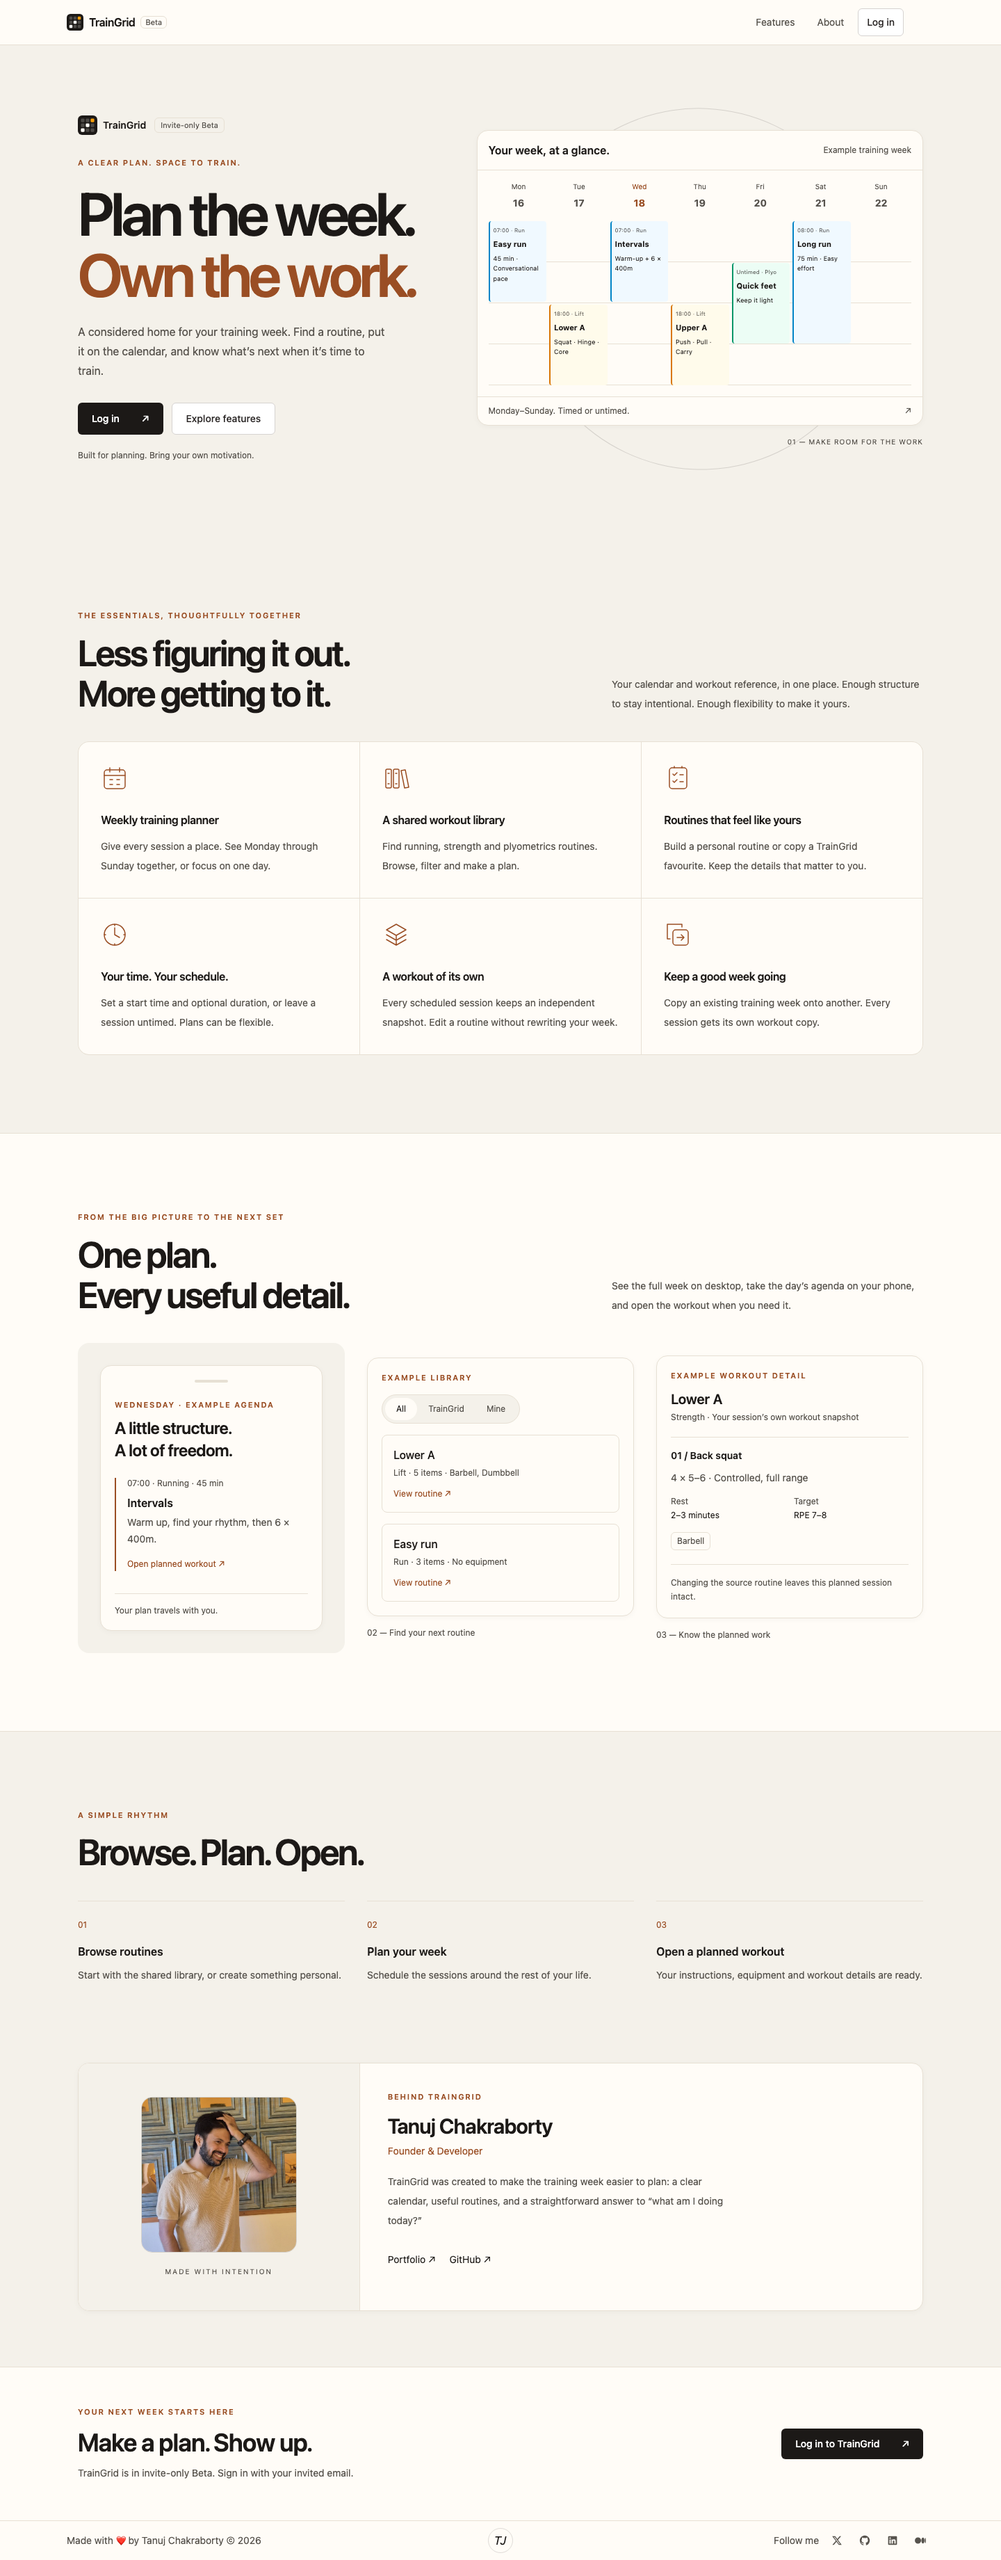
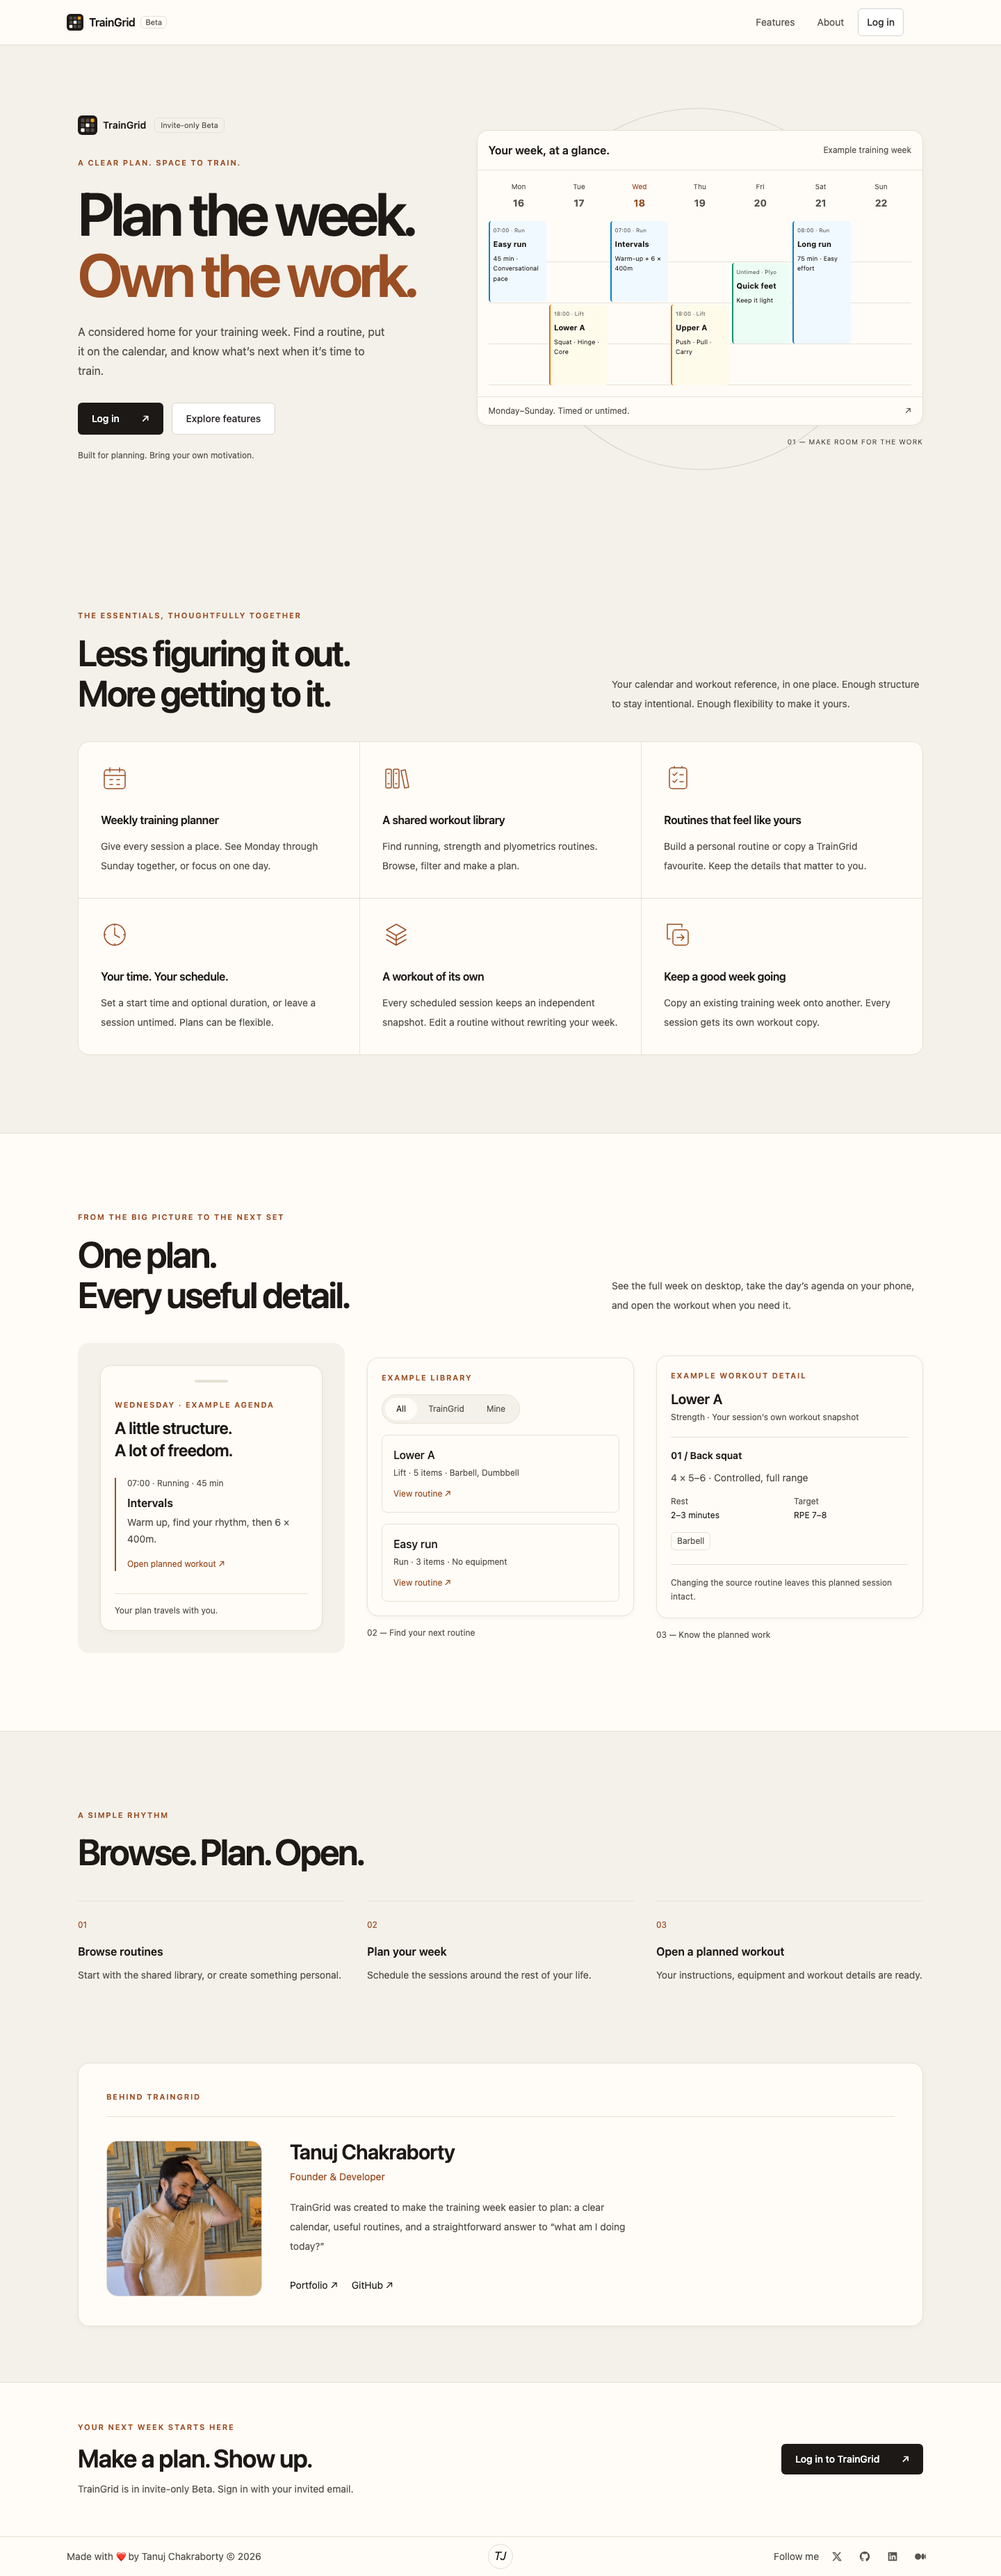
fix(ui): unify home loaders and refine signout and creator card

diff --git a/e2e/loaders.spec.ts b/e2e/loaders.spec.ts
@@ -1,3 +1,4 @@
+import { mkdir } from "node:fs/promises";
 import { expect, test, type Page } from "@playwright/test";
 import { hasLocalSecretKey, signInAsNewLocalMember, supabaseState } from "./local-supabase";
 
@@ -28,8 +29,12 @@ async function slowNavigations(page: Page, pattern: RegExp, ms = 1500) {
 const pageLoader = (page: Page) => page.getByTestId("page-loader");
 
 test("following a link shows the spinning logo until the next page arrives", async ({ page }) => {
-  await page.goto("/library");
   await slowNavigations(page, /^\/library\/[0-9a-f-]{36}/);
+  await page.goto("/library");
+  await page.waitForFunction(() => {
+    const summary = document.querySelector("header summary");
+    return !!summary && Object.keys(summary).some((key) => key.startsWith("__reactFiber"));
+  });
   await page.locator("main section li a[href^='/library/']").first().click();
 
   await expect(pageLoader(page)).toBeVisible();
@@ -119,3 +124,91 @@ test("the planner streams the week behind a section loader without breaking 404s
   const response = await page.goto("/week/2026-W99");
   expect(response?.status()).toBe(404);
 });
+
+test("member home uses the existing navigation logo while loading", async ({
+  page,
+}) => {
+  await page.goto("/library");
+  await slowNavigations(page, /^\/home(?:\?|$)/);
+  await page
+    .getByRole("navigation", { name: "Main" })
+    .getByRole("link", { name: "Home", exact: true })
+    .click();
+  await expect(pageLoader(page)).toBeVisible();
+  await expect(pageLoader(page).locator("svg")).toHaveCSS(
+    "animation-name",
+    "spin",
+  );
+  await expect(page).toHaveURL(/\/home$/);
+  await expect(pageLoader(page)).toHaveCount(0);
+  await expect(page.getByTestId("section-loader")).toHaveCount(0);
+});
+
+test("public landing uses the existing navigation logo while loading", async ({
+  page,
+  context,
+}) => {
+  await context.clearCookies();
+  await page.goto("/login");
+  await slowNavigations(page, /^\/(?:\?|$)/);
+  await page
+    .getByRole("banner")
+    .getByRole("link", { name: "TrainGrid", exact: true })
+    .click();
+  await expect(pageLoader(page)).toBeVisible();
+  await expect(page).toHaveURL(/:\d+\/$/);
+  await expect(page.getByRole("heading", { level: 1 })).toContainText(
+    "Plan the week.",
+  );
+  await expect(pageLoader(page)).toHaveCount(0);
+});
+
+for (const theme of ["light", "dark"] as const) {
+  for (const width of [360, 1440]) {
+    test(`signout shows real pending progress (${theme}, ${width})`, async ({
+      page,
+    }) => {
+      await page.setViewportSize({ width, height: 900 });
+      await page.emulateMedia({ colorScheme: theme, reducedMotion: "reduce" });
+      await page.goto("/home");
+      await expect(page.getByRole("main").getByRole("heading", { level: 1 })).toBeVisible();
+      await page.route("**/*", async (route) => {
+        if (
+          route.request().method() === "POST" &&
+          route.request().headers()["next-action"]
+        ) {
+          await new Promise((resolve) => setTimeout(resolve, 2000));
+        }
+        await route.continue();
+      });
+      if (width === 360) {
+        await page.waitForFunction(() => {
+          const summary = document.querySelector("header summary");
+          return (
+            !!summary &&
+            Object.keys(summary).some((key) => key.startsWith("__reactFiber"))
+          );
+        });
+        await page.getByLabel("Open menu", { exact: true }).click();
+      }
+      await page.getByRole("button", { name: "Sign out", exact: true }).click();
+      const loader = page.getByTestId("signout-loader");
+      await expect(loader.getByRole("status")).toHaveText("Signing you out...");
+      await expect(
+        page.getByRole("button", { name: "Signing you out...", exact: true }),
+      ).toBeDisabled();
+      await expect(loader.locator("svg")).toHaveCSS("animation-name", "none");
+      await mkdir("docs/images/epic-3/loaders-creator", { recursive: true });
+      await page.screenshot({
+        path: `docs/images/epic-3/loaders-creator/signout-${width}-${theme}.png`,
+        animations: "disabled",
+        style: "nextjs-portal { display: none !important; }",
+      });
+      await expect(page).toHaveURL(/\/login$/);
+      await expect(loader).toHaveCount(0);
+      await expect(
+        page.getByRole("button", { name: "Sign out", exact: true }),
+      ).toHaveCount(0);
+    });
+  }
+}

diff --git a/components/marketing/LandingPage.tsx b/components/marketing/LandingPage.tsx
@@ -210,52 +210,53 @@ export function LandingPage({
         className="landing-container pb-20"
         aria-labelledby="creator-title"
       >
-        <div className="creator-card ui-panel">
-          <div className="creator-mark">
-            <Image
-              src="/marketing/tanuj-chakraborty.jpg"
-              alt="Tanuj Chakraborty"
-              width={1170}
-              height={1170}
-              unoptimized
-              loading="lazy"
-              className="aspect-square w-56 rounded-2xl border border-hairline object-cover"
-            />
-            <span className="mt-5 font-mono text-[10px] uppercase tracking-[0.2em] text-stone-600">
-              Made with intention
-            </span>
-          </div>
-          <div className="p-7 sm:p-10">
-            <p className="ui-eyebrow">Behind TrainGrid</p>
-            <h2
-              id="creator-title"
-              className="mt-4 text-3xl font-semibold tracking-tight"
-            >
-              Tanuj Chakraborty
-            </h2>
-            <p className="mt-2 text-sm text-accent">{creatorRole}</p>
-            <p className="mt-5 max-w-lg text-sm leading-7 text-stone-600">
-              TrainGrid was created to make the training week easier to plan: a
-              clear calendar, useful routines, and a straightforward answer to
-              “what am I doing today?”
-            </p>
-            <div className="mt-6 flex flex-wrap gap-5 text-sm">
-              <a
-                className="underline-reveal py-2"
-                href="https://iamtj.dev"
-                target="_blank"
-                rel="noopener noreferrer"
-              >
-                Portfolio ↗
-              </a>
-              <a
-                className="underline-reveal py-2"
-                href="https://github.com/i-am-tj"
-                target="_blank"
-                rel="noopener noreferrer"
-              >
-                GitHub ↗
-              </a>
+        <div className="creator-card ui-panel p-7 sm:p-10">
+          <h2
+            id="creator-title"
+            className="ui-eyebrow border-b border-line pb-5"
+          >
+            Behind TrainGrid
+          </h2>
+          <div className="creator-layout mt-8">
+            <div className="creator-mark">
+              <Image
+                src="/marketing/tanuj-chakraborty.jpg"
+                alt="Tanuj Chakraborty"
+                width={1170}
+                height={1170}
+                unoptimized
+                loading="lazy"
+                className="aspect-square w-56 max-w-full rounded-2xl border border-hairline object-cover"
+              />
+            </div>
+            <div className="creator-details">
+              <h3 className="text-3xl font-semibold tracking-tight">
+                Tanuj Chakraborty
+              </h3>
+              <p className="mt-2 text-sm text-accent">{creatorRole}</p>
+              <p className="mt-5 max-w-lg text-sm leading-7 text-stone-600">
+                TrainGrid was created to make the training week easier to plan:
+                a clear calendar, useful routines, and a straightforward answer
+                to “what am I doing today?”
+              </p>
+              <div className="mt-6 flex flex-wrap gap-5 text-sm">
+                <a
+                  className="underline-reveal py-2"
+                  href="https://iamtj.dev"
+                  target="_blank"
+                  rel="noopener noreferrer"
+                >
+                  Portfolio ↗
+                </a>
+                <a
+                  className="underline-reveal py-2"
+                  href="https://github.com/i-am-tj"
+                  target="_blank"
+                  rel="noopener noreferrer"
+                >
+                  GitHub ↗
+                </a>
+              </div>
             </div>
           </div>
         </div>

diff --git a/tests/ui/landing.spec.ts b/tests/ui/landing.spec.ts
@@ -145,3 +145,66 @@ test("mobile public menu retains native no-JavaScript access", async ({
     ),
   ).toBe(true);
 });
+
+test("Behind TrainGrid uses one card with aligned portrait and details in both themes", async ({
+  page,
+}) => {
+  await page.emulateMedia({ reducedMotion: "reduce" });
+  await page.goto("http://ui-preview.test/");
+  const card = page.locator(".creator-card");
+  const portrait = card.getByRole("img", {
+    name: "Tanuj Chakraborty",
+    exact: true,
+  });
+  const details = card.getByRole("heading", {
+    name: "Tanuj Chakraborty",
+    exact: true,
+  });
+  await expect(
+    card.getByRole("heading", { name: "Behind TrainGrid", exact: true }),
+  ).toBeVisible();
+  await expect(
+    card.getByText("Made with intention", { exact: true }),
+  ).toHaveCount(0);
+  for (const theme of ["light", "dark"] as const) {
+    await page.evaluate(
+      (dark) => document.documentElement.classList.toggle("dark", dark),
+      theme === "dark",
+    );
+    for (const width of [320, 768, 1440]) {
+      await page.setViewportSize({ width, height: 900 });
+      await portrait.scrollIntoViewIfNeeded();
+      await portrait.evaluate((image) => (image as HTMLImageElement).decode());
+      const imageBox = (await portrait.boundingBox())!;
+      const textBox = (await details.boundingBox())!;
+      const contentBox = (await details.locator("..").boundingBox())!;
+      if (width >= 768) {
+        expect(textBox.x - imageBox.x - imageBox.width).toBeGreaterThanOrEqual(
+          40,
+        );
+        expect(
+          Math.abs(
+            imageBox.y +
+              imageBox.height / 2 -
+              contentBox.y -
+              contentBox.height / 2,
+          ),
+        ).toBeLessThanOrEqual(1);
+      } else {
+        expect(textBox.y).toBeGreaterThanOrEqual(
+          imageBox.y + imageBox.height + 32,
+        );
+      }
+      expect(
+        await page.evaluate(
+          () => document.documentElement.scrollWidth <= innerWidth,
+        ),
+      ).toBe(true);
+      await mkdir("docs/images/epic-3/loaders-creator", { recursive: true });
+      await card.screenshot({
+        path: `docs/images/epic-3/loaders-creator/creator-${width}-${theme}.png`,
+        animations: "disabled",
+      });
+    }
+  }
+});

diff --git a/app/globals.css b/app/globals.css
@@ -206,13 +206,13 @@ body {
 .feature-card:hover { background: var(--surface-elevated); }
 .showcase-grid { display: grid; gap: 2rem; align-items: center; }
 .showcase-agenda { padding: 2rem 1rem; border-radius: 1rem; background: var(--background); }
-.creator-card { display: grid; overflow: hidden; }
-.creator-mark { display: flex; flex-direction: column; align-items: center; justify-content: center; padding: 3rem 1rem; background: var(--background); border-bottom: 1px solid var(--line); }
+.creator-card { overflow: hidden; }
+.creator-layout { display: flex; flex-wrap: wrap; gap: 2rem 2.5rem; align-items: center; }
+.creator-mark { display: flex; flex: 0 1 14rem; min-width: 0; margin-inline: auto; justify-content: center; }
+.creator-details { flex: 1 1 18rem; min-width: 0; }
 @keyframes enter-ui { from { opacity: 0; transform: translateY(10px); } to { opacity: 1; transform: translateY(0); } }
 @media (min-width: 640px) {
   .feature-grid { grid-template-columns: repeat(2,minmax(0,1fr)); }
-  .creator-card { grid-template-columns: 1fr 2fr; }
-  .creator-mark { border-bottom: 0; border-right: 1px solid var(--line); }
 }
 @media (min-width: 1024px) {
   .landing-hero { grid-template-columns: 0.9fr 1.1fr; gap: 3rem; }

diff --git a/components/auth/SignOutButton.tsx b/components/auth/SignOutButton.tsx
@@ -1,14 +1,32 @@
 "use client";
 
-import { useFormStatus } from "react-dom";
+import { createPortal, useFormStatus } from "react-dom";
+import { LogoLoader } from "@/components/LogoLoader";
 import { signOut } from "@/lib/auth/actions";
 
 function Submit({ className }: { className: string }) {
   const { pending } = useFormStatus();
   return (
-    <button type="submit" disabled={pending} aria-busy={pending} className={className}>
-      {pending ? "Signing out…" : "Sign out"}
-    </button>
+    <>
+      <button
+        type="submit"
+        disabled={pending}
+        aria-busy={pending}
+        className={className}
+      >
+        {pending ? "Signing you out..." : "Sign out"}
+      </button>
+      {pending &&
+        createPortal(
+          <div
+            data-testid="signout-loader"
+            className="fixed inset-0 z-50 flex items-center justify-center bg-background/90 backdrop-blur-[1px]"
+          >
+            <LogoLoader size="lg" label="Signing you out..." showLabel />
+          </div>,
+          document.body,
+        )}
+    </>
   );
 }
 

diff --git a/app/(app)/home/loading.tsx b/app/(app)/home/loading.tsx
@@ -1,5 +1,5 @@
-import { DashboardLoading } from "@/components/dashboard/MemberDashboard";
+import { SectionLoader } from "@/components/LogoLoader";
 
 export default function HomeLoading() {
-  return <DashboardLoading />;
+  return <SectionLoader label="Loading your home…" minHeight="min-h-[60dvh]" />;
 }

diff --git a/app/(marketing)/loading.tsx b/app/(marketing)/loading.tsx
@@ -1,0 +1,5 @@
+import { SectionLoader } from "@/components/LogoLoader";
+
+export default function LandingLoading() {
+  return <SectionLoader label="Loading TrainGrid…" minHeight="min-h-[60dvh]" />;
+}

diff --git a/agents/EPIC-3-UI-VERIFICATION.md b/agents/EPIC-3-UI-VERIFICATION.md
@@ -76,3 +76,20 @@ The empty-routine actions use a 24px horizontal gap and 12px vertical gap when w
 | Routine actions | [1440px](../docs/images/epic-3/enhancements/empty-routines-1440-light.png) | [1440px](../docs/images/epic-3/enhancements/empty-routines-1440-dark.png) | [320px](../docs/images/epic-3/enhancements/empty-routines-320-light.png) | [320px](../docs/images/epic-3/enhancements/empty-routines-320-dark.png) |
 
 Modal captures use the live local app; action captures show the isolated component empty state.
+
+## Follow-up — landing/home loaders, sign-out and creator card
+
+Based on reviewed main `dd82d4f` after PR #42: `/home` now uses the existing branded SectionLoader as its route fallback, and the public landing group has the same fallback. Existing cross-route logo progress remains in place. The public landing page remains static and has no artificial delay: loading indicators appear only while navigation/rendering is pending. No auth or data-fetching logic changes.
+
+The sign-out form retains its existing action and local-session semantics. Its real `useFormStatus` pending state shows the large logo and visible “Signing you out...” text in a body portal, so closing the mobile menu cannot hide the progress indicator. The submitting control is disabled, and progress disappears when the action finishes/navigation lands. Reduced-motion users see a static logo.
+
+The creator card now has a full-width “Behind TrainGrid” heading and divider, with the supplied portrait on the left and vertically centered name/role/details/links on the right. “Made with intention” and the split tinted photo panel were removed. Flexible wrapping stacks the photo above the details on phones and at enlarged text sizes without squeezing names into a narrow column. Founder role, original photo, verified links and theme are preserved.
+
+Validation covers both themes; 320/768/1440px creator alignment; 200% text reflow; semantic heading order/axe; delayed `/` and `/home` navigation; and real sign-out pending state at 360/1440px including reduced motion. Existing header Escape/outside-click and auth/home/member-isolation tests are retained. Route fallbacks add no artificial loading timers or auth redesign. Component captures use the isolated preview; sign-out captures use the real local app.
+
+Final checks pass: 50 component browser tests, 38 affected app browser tests, lint/typecheck, secret scan and optimized `next build --webpack`. The existing delayed-navigation test now installs its interception before page loading/prefetch and waits for header hydration, so the pending state is observed reliably.
+
+| Screen | Desktop light | Desktop dark | Phone light | Phone dark |
+| --- | --- | --- | --- | --- |
+| Creator card | [1440px](../docs/images/epic-3/loaders-creator/creator-1440-light.png) | [1440px](../docs/images/epic-3/loaders-creator/creator-1440-dark.png) | [320px](../docs/images/epic-3/loaders-creator/creator-320-light.png) | [320px](../docs/images/epic-3/loaders-creator/creator-320-dark.png) |
+| Signing out | [1440px](../docs/images/epic-3/loaders-creator/signout-1440-light.png) | [1440px](../docs/images/epic-3/loaders-creator/signout-1440-dark.png) | [360px](../docs/images/epic-3/loaders-creator/signout-360-light.png) | [360px](../docs/images/epic-3/loaders-creator/signout-360-dark.png) |
